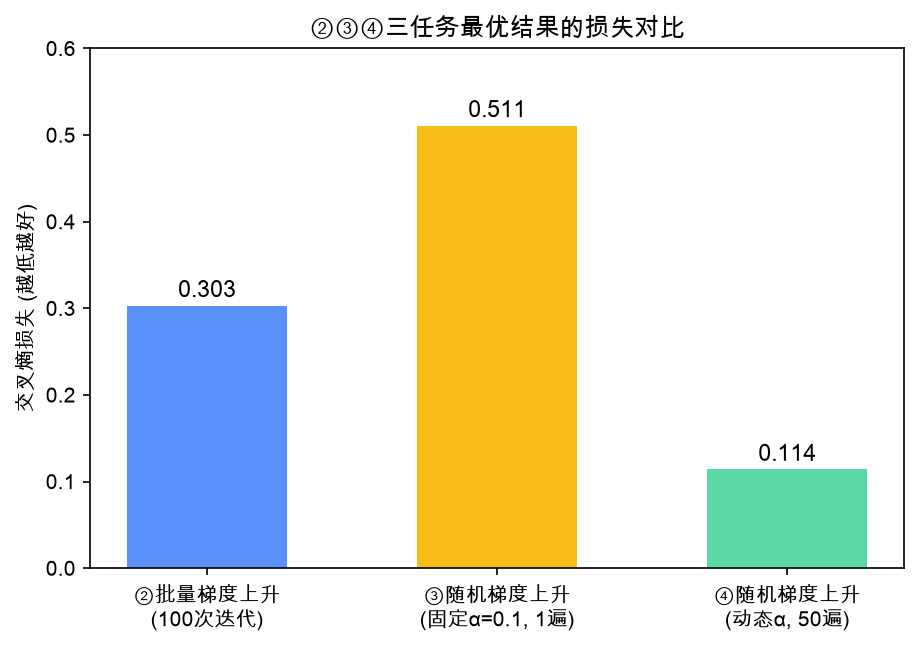
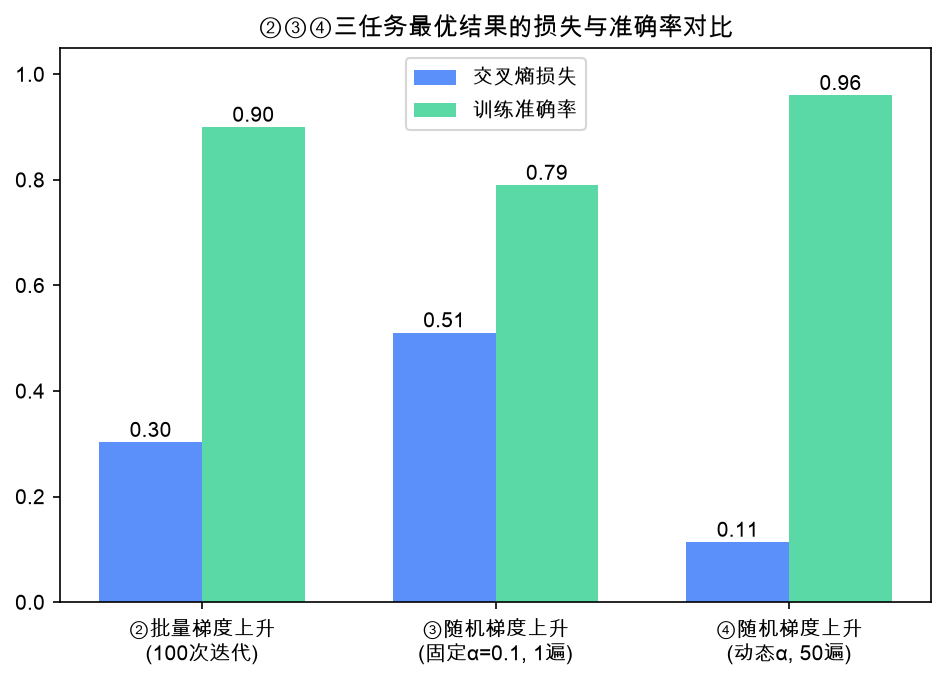
vault backup: 2026-10-12 20:35:03

diff --git a/code/机器学习/exp2_②③④综合分析.md b/code/机器学习/exp2_②③④综合分析.md
@@ -14,11 +14,11 @@
 
 | 任务 | 最优设置 | 交叉熵损失 | 训练准确率 |
 |---|---|---|---|
-| ② | 100 次迭代 | 0.303 | — |
+| ② | 100 次迭代 | 0.303 | 90% |
 | ③ | α=0.1，只走 1 遍 | 0.511 | 79% |
 | ④ | 反比衰减 α=4/(1+j+i)+1e-4 | **0.114** | 96% |
 
-![三任务损失对比](exp2_tasks_compare.png)
+![三任务损失与准确率对比](exp2_tasks_compare.png)
 
 各任务分隔线图：②`exp2_iterations_compare.png`、③`exp2_sga_lr_compare.png`、④`exp2_sga_dynamic_lr.png`。
 
@@ -30,7 +30,7 @@
 
 ## 四、总体结论
 
-- 同为 100 次更新，随机法（③，0.511）不如批量法（②，0.303）——单样本梯度噪声大；
+- 同为 100 次更新，随机法（③，0.511 / 79%）不如批量法（②，0.303 / 90%）——单样本梯度噪声大；注意损失差距比准确率差距更大：两者错分的都是同几个边界样本，但批量法对错分样本的置信度更高；
 - 从③到④只改"固定 α → 动态 α + 多轮"，损失 0.511→0.114、准确率 79%→96%，**提升最大**；
 - ④甚至反超批量法——随机扰动+小开销正是 SGD 成为深度学习标准优化器的原因；
 - 一条调参逻辑链：**迭代次数（②）决定学多久 → 学习率（③）决定每步多大 → 动态调度（④）把两者统一成"先快后稳"**，学习率调度是其中最本质的超参数。
